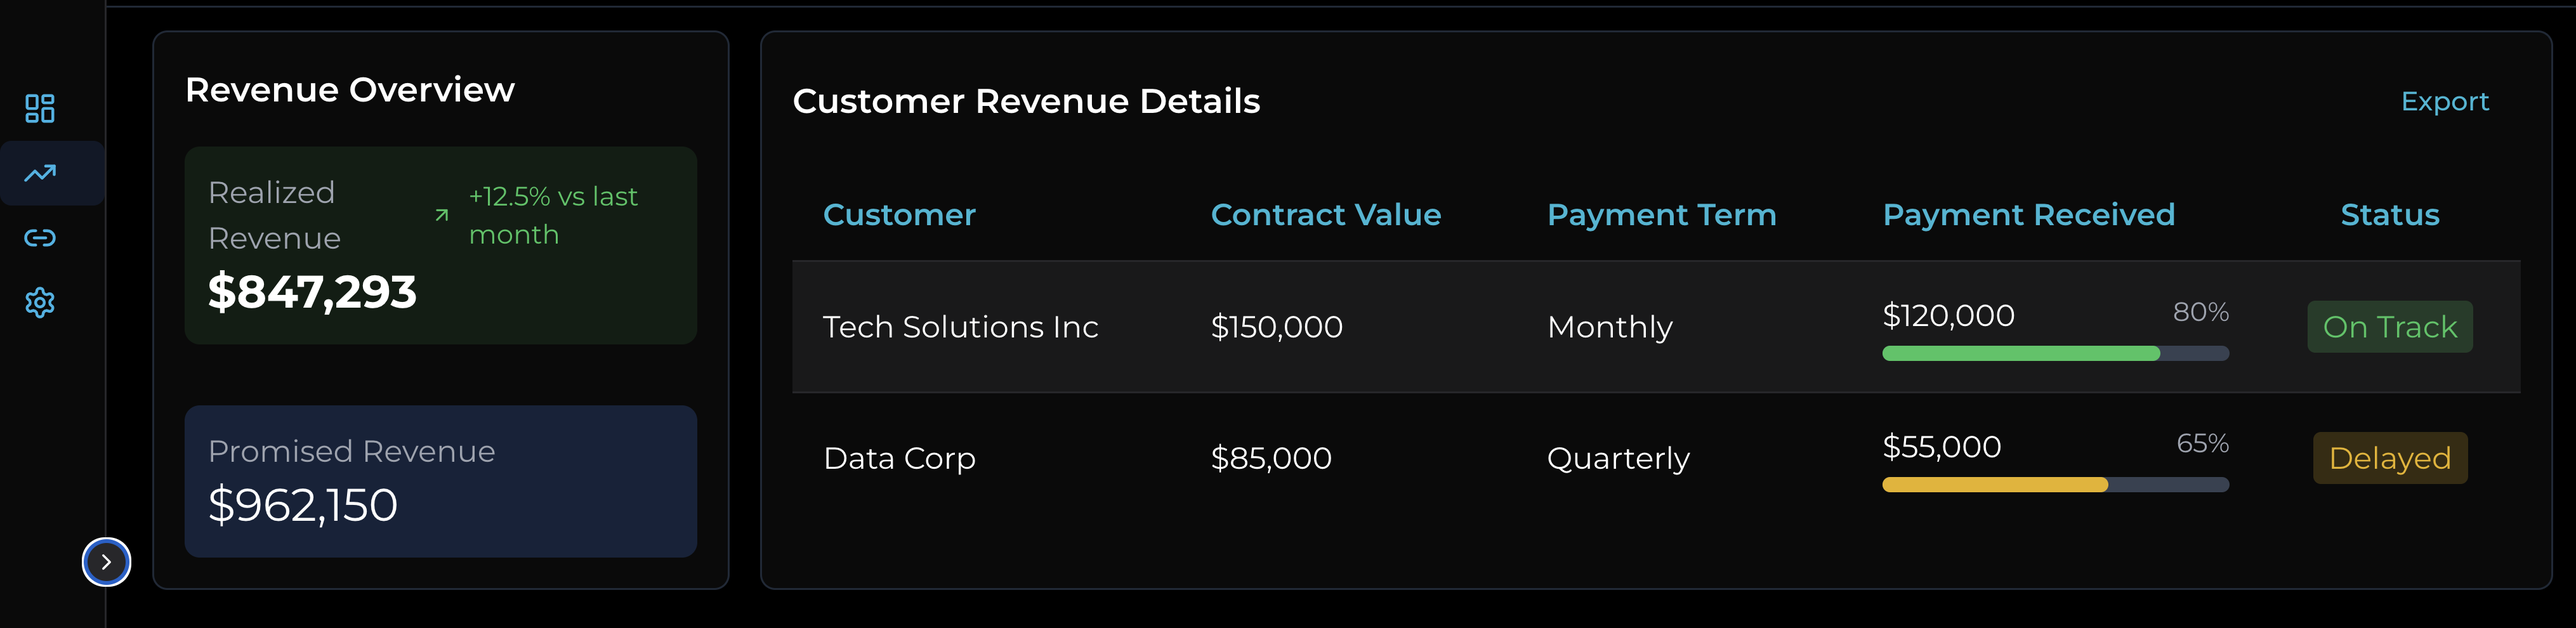
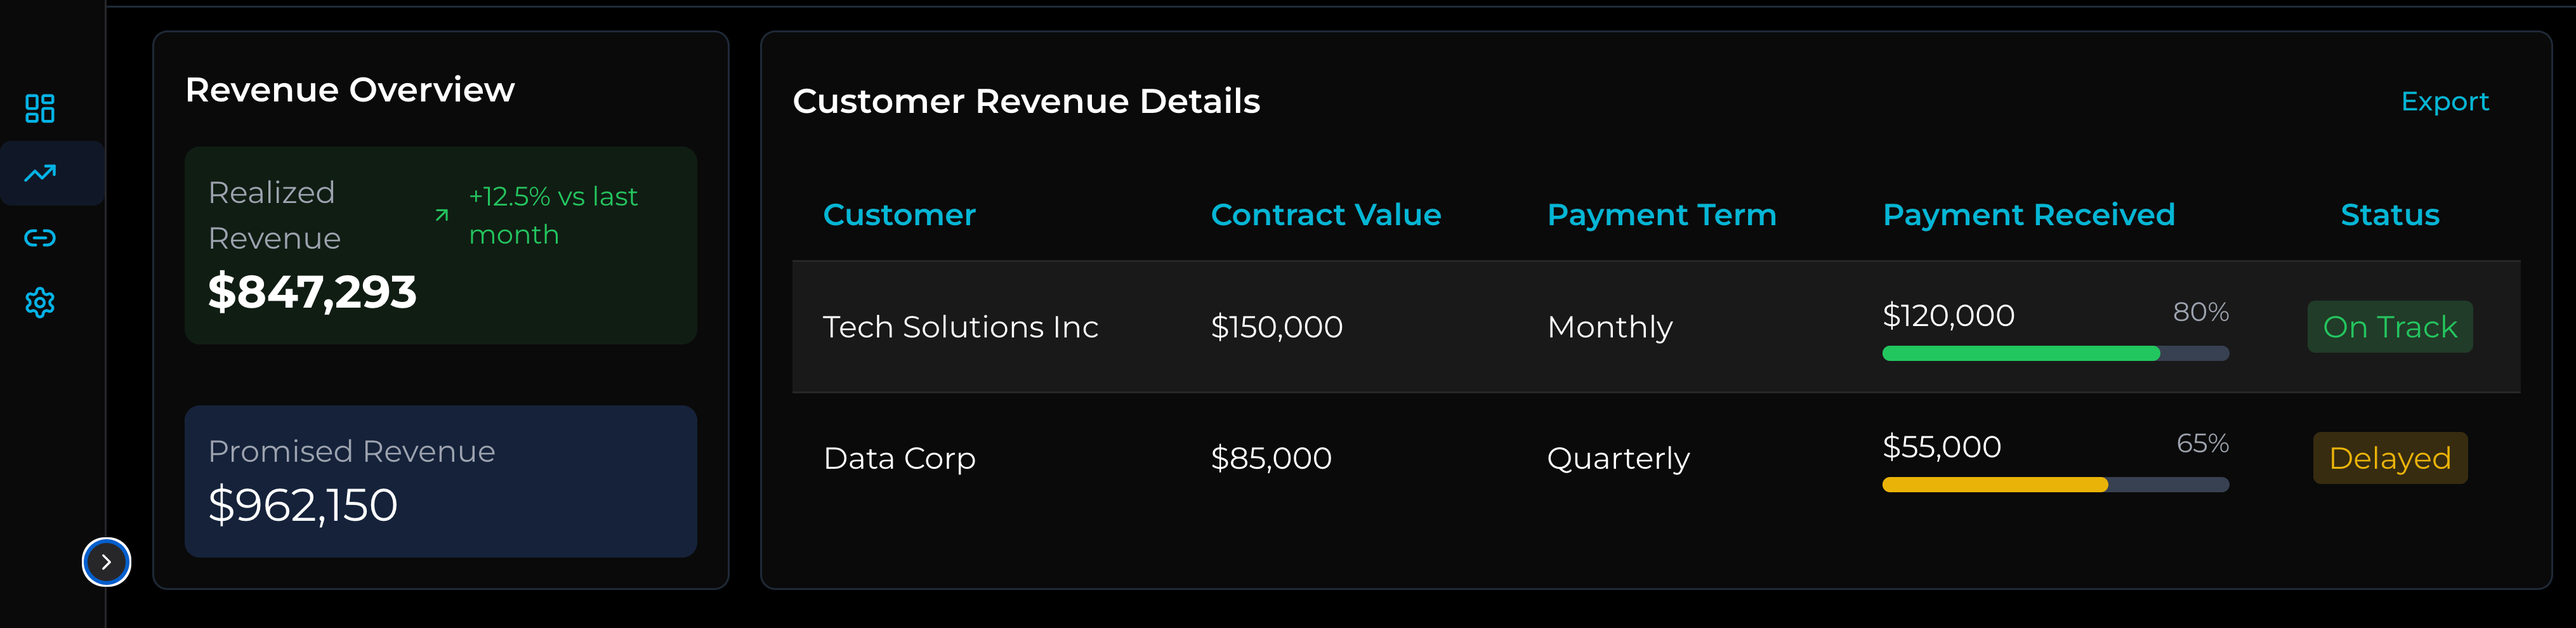
Further reducing size and converting to Webp

diff --git a/app/page.tsx b/app/page.tsx
@@ -42,14 +42,14 @@ export default function Home() {
       icon: <MdPeople />,
       title: "Customer Retention Analysis ",
       description: "Anticipate churn before it happens. Track engagement, identify at-risk accounts, and take decisive actions to improve retention.",
-      image: "/retention-pipeline.png"
+      image: "/retention-pipeline.webp"
     },
     {
       id: 4,
       icon: <MdAnalytics />,
       title: "Deals Pipeline Health",
       description: "Track deal progress and forecast pipeline conversion with machine learning accuracy.Prioritize high-probability deals, focus resources where they matter most, and accelerate revenue growth with precise pipeline predictions.",
-      image: "/revenue-forecast.png"
+      image: "/revenue-forecast.webp"
     }
   ];
   // For the newsletter form
@@ -185,7 +185,7 @@ const handleSubmit = async (e: FormEvent<HTMLFormElement>) => {
    <div className="w-1/2">
    <div className="border-2 border-[#00b3e6]/50 rounded-lg p-4 bg-[#00b3e6]/10">  {/* Added border and background */}
      <Image
-       src="/Home1.png"
+       src="/Home.webp"
        alt="CapIA.ai Dashboard Preview"
        width={1600}
        height={1200}
